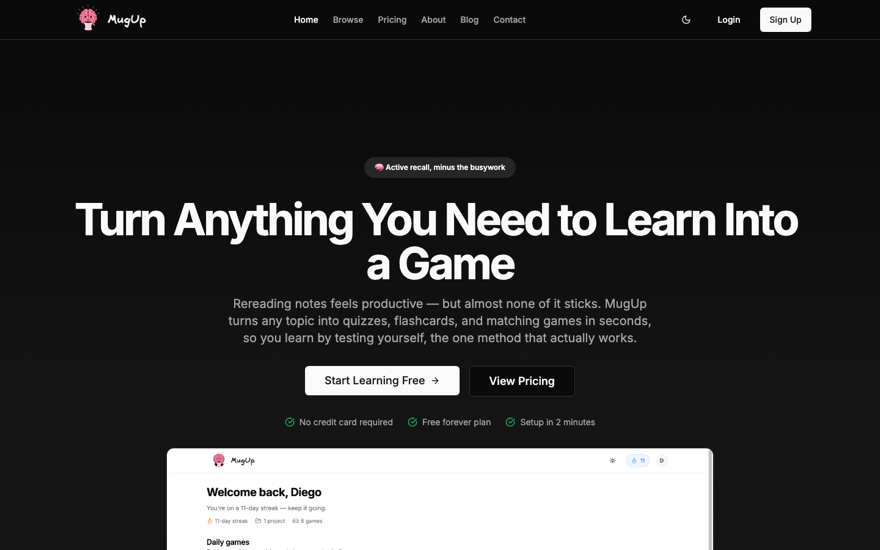
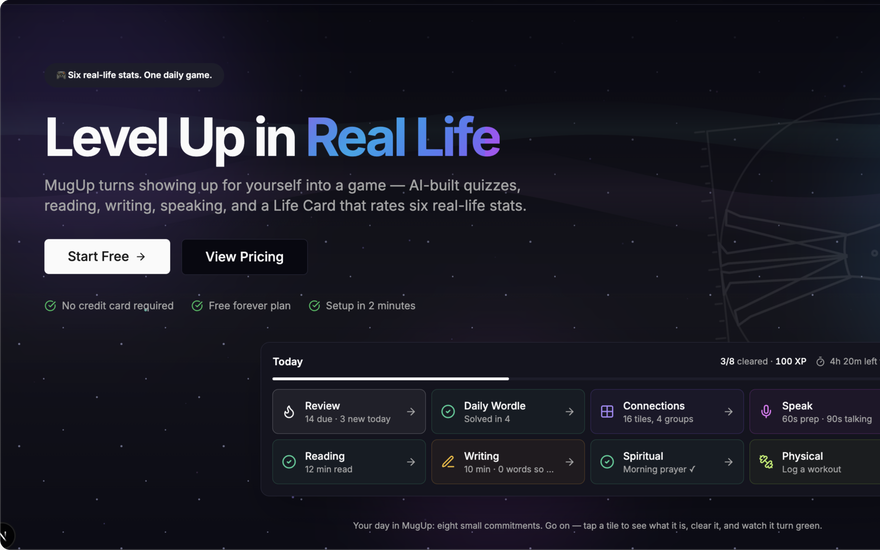
Add ManyMin, refresh MugUp, and fix stale project links
MugUp rebranded, so its card carried a stale screenshot and description.
Its link pointed at beta.mugup.app, which no longer has a DNS record;
point it at mugup.app and rewrite the copy to match the current product.

Add ManyMin to the projects grid, second after MugUp.

Hayya has shipped, so drop its in-development status and point it at the
Hayya site rather than the old GitHub Pages placeholder link.

diff --git a/data/projects.ts b/data/projects.ts
@@ -16,11 +16,21 @@ const projects: Project[] = [
     name: 'MugUp',
     role: 'Founder',
     description:
-      'AI-powered study tool that turns any topic into quizzes, flashcards, and matching games in seconds — active recall without the busywork. I run it as a product: content generation, subscriptions, billing, and infrastructure are all mine. Self-hosted rather than serverless to keep unit costs flat as usage grows.',
+      'Turns showing up for yourself into a game — AI-built quizzes and flashcards with spaced repetition, plus reading, writing, speaking, and habit streaks, all scored as six real-life stats on a daily Life Card. I run it as a product: content generation, subscriptions, billing, and infrastructure are all mine. Self-hosted rather than serverless to keep unit costs flat as usage grows.',
     tech: ['Next.js', 'TypeScript', 'Supabase', 'Stripe', 'Gemini AI', 'Hetzner'],
     status: 'live',
     image: '/projects/mugup.png',
-    deployment: 'https://beta.mugup.app',
+    deployment: 'https://mugup.app',
+  },
+  {
+    name: 'ManyMin',
+    role: 'Founder',
+    description:
+      'macOS screen-time tracker that samples the frontmost app once a second and splits browser time by website, shown live in a floating HUD and the menu bar. Daily goals and per-app limits, and going over can pulse the HUD or turn the whole screen grayscale. No account and no sync — everything stays in a local SQLite database. Sold as a $29 one-time purchase through Stripe, signed and notarized.',
+    tech: ['Swift', 'SwiftUI', 'AppKit', 'SQLite', 'Sparkle', 'Stripe'],
+    status: 'live',
+    image: '/projects/manymin.png',
+    deployment: 'https://manymin.app',
   },
   {
     name: 'EasyReports',
@@ -46,7 +56,7 @@ const projects: Project[] = [
     description:
       'Mobile app that turns Muslim prayer times into insistent, call-style alarms — a full-screen "incoming call" UI with themed ringtones, streak tracking, and a written-reason flow for declining. Exact-alarm scheduling and full-screen lock-screen intents on Android, time-sensitive notifications on iOS.',
     tech: ['React Native', 'Expo', 'TypeScript', 'Notifee', 'zustand', 'adhan'],
-    status: 'in-development',
+    status: 'live',
     image: '/projects/hayya.png',
     deployment: 'https://saiyedrushan.github.io/hayya-site/',
   },

diff --git a/data/workExperience.ts b/data/workExperience.ts
@@ -18,7 +18,7 @@ const workExperience: Experience[] = [
     tagline: 'Independent software studio — web, mobile, and the systems behind them',
     description: [
       'Work with startups and small teams end-to-end: scoping the problem, designing the architecture, shipping the product, and running it in production afterwards.',
-      'Build and operate my own products under the same roof — MugUp and EasyReports are live and paid, with Learn Quran and Hayya in active development.',
+      'Build and operate my own products under the same roof — MugUp, ManyMin, and EasyReports are live and paid, with Learn Quran on the web and Hayya on the App Store.',
       'Bring the same stack I ran at enterprise scale to smaller teams: TypeScript, React, Next.js, Node.js, and PostgreSQL, on cloud infrastructure provisioned as code.',
       'Handle the full delivery path — CI/CD, observability, and cloud cost management — so clients get a product that stays maintainable after handover.',
     ],

diff --git a/components/About.tsx b/components/About.tsx
@@ -17,7 +17,7 @@ const SKILLS = [
 ]
 
 const PARAGRAPHS = [
-  'I run RushDevs, an independent software studio building websites, web apps, and mobile apps for startups and small teams — and I build my own products under the same roof, two of them live and paid.',
+  'I run RushDevs, an independent software studio building websites, web apps, and mobile apps for startups and small teams — and I build my own products under the same roof, three of them live and paid.',
   'That follows 4+ years designing and shipping full-stack, distributed systems at Afresh, Speer, and Bell Canada, owning critical systems end-to-end from architecture through on-call operations.',
 ]
 
